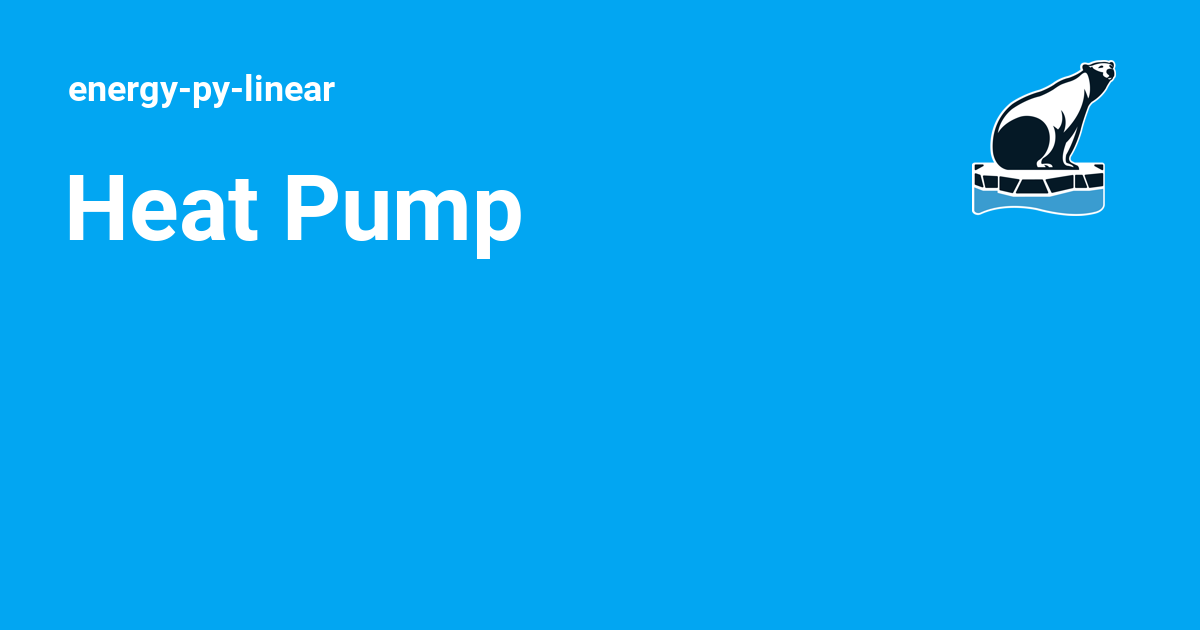
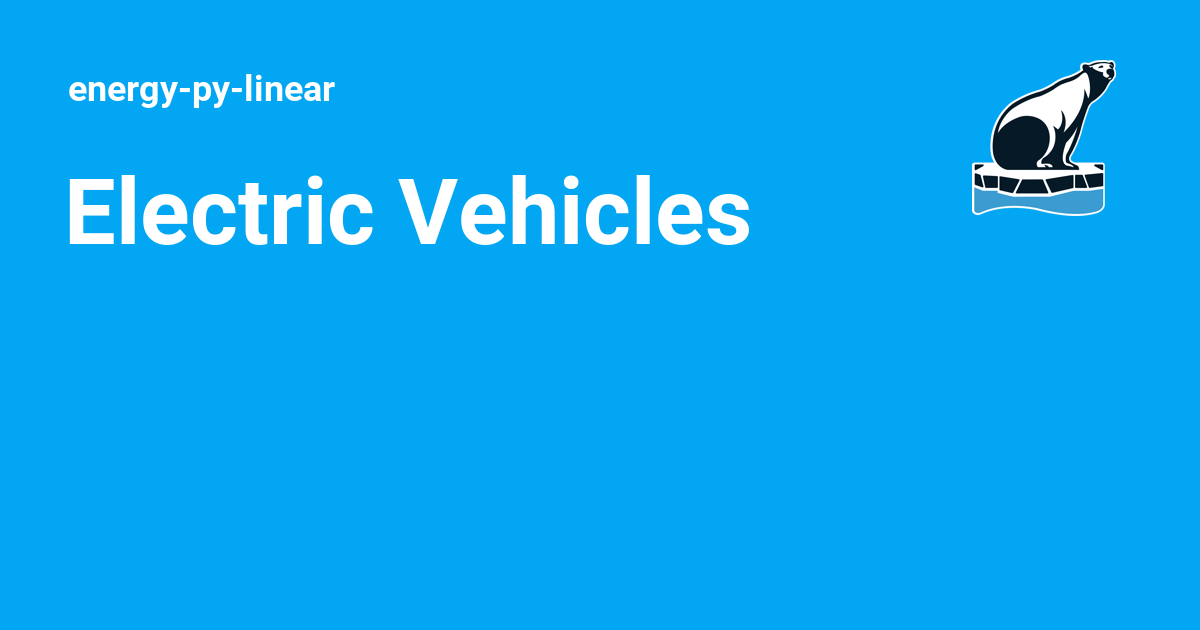
Deployed aa86b32 to 1.0.0 with MkDocs 1.5.3 and mike 1.1.2

Changed region(s): [[0.0617, 0.2714, 0.6475, 0.4222]]

diff --git a/1.0.0/changelog/index.html b/1.0.0/changelog/index.html
@@ -354,7 +354,7 @@
   
   
     <li class="md-nav__item">
-      <a href="../assets/evs/" class="md-nav__link">
+      <a href="../assets/heat-pump/" class="md-nav__link">
         Heat Pump
       </a>
     </li>
@@ -860,7 +860,7 @@
 <h1 id="changelog">Changelog</h1>
 <h2 id="100"><a href="https://github.com/ADGEfficiency/energy-py-linear/releases/tag/v1.0.0">1.0.0</a></h2>
 <h3 id="add-renewable-generator-asset">Add Renewable Generator Asset</h3>
-<p>The <code>epl.RenewableGenerator</code> asset models controllable generation, renewable generation like solar or wind.</p>
+<p>The <code>epl.RenewableGenerator</code> asset models controllable renewable generation like solar or wind.</p>
 <div class="highlight"><pre><span></span><code><a id="__codelineno-0-1" name="__codelineno-0-1" href="#__codelineno-0-1"></a><span class="kn">import</span> <span class="nn">energypylinear</span> <span class="k">as</span> <span class="nn">epl</span>
 <a id="__codelineno-0-2" name="__codelineno-0-2" href="#__codelineno-0-2"></a>
 <a id="__codelineno-0-3" name="__codelineno-0-3" href="#__codelineno-0-3"></a><span class="n">asset</span> <span class="o">=</span> <span class="n">epl</span><span class="o">.</span><span class="n">RenewableGenerator</span><span class="p">(</span>
@@ -907,7 +907,7 @@
 <a id="__codelineno-3-7" name="__codelineno-3-7" href="#__codelineno-3-7"></a><span class="n">results</span> <span class="o">=</span> <span class="n">simulation</span><span class="o">.</span><span class="n">results</span>
 </code></pre></div>
 <h3 id="bug-fixes">Bug Fixes</h3>
-<p>Fixed a bug in the documentation for <a href="how-to/price-carbon/">optimizing for price and carbon</a>.</p>
+<p>Fixed a bug in the documentation for <a href="https://energypylinear.adgefficiency.com/latest/how-to/price-carbon/">optimizing for price and carbon</a>.</p>
 <p>Added the heat pump asset to the <code>epl.Site</code> API.</p>
 <h3 id="documentation">Documentation</h3>
 <p>Expanded the asset documentation from a single file into separate files, one per asset. Moved examples into the asset documentation.</p>
@@ -915,6 +915,7 @@
 <h3 id="other-changes">Other Changes</h3>
 <p>Adopted <a href="https://semver.org">semantic versioning</a>.</p>
 <p>Moved changelog into <a href="https://energypylinear.adgefficiency.com/latest/changelog">docs/changelog</a>.</p>
+<p>Updated versions of Pydantic, Pandas &amp; Numpy.</p>
 <h2 id="021"><a href="https://github.com/ADGEfficiency/energy-py-linear/releases/tag/v0.2.1">0.2.1</a></h2>
 <p>Added the <code>epl.HeatPump</code> asset.</p>
 <h2 id="020"><a href="https://github.com/ADGEfficiency/energy-py-linear/releases/tag/v0.2.0">0.2.0</a></h2>

diff --git a/1.0.0/assets/evs/index.html b/1.0.0/assets/evs/index.html
@@ -11,17 +11,17 @@
         <link rel="canonical" href="https://energypylinear.adgefficiency.com/1.0.0/assets/evs/">
       
       
-        <link rel="prev" href="./">
+        <link rel="prev" href="../chp/">
       
       
-        <link rel="next" href="../renewable-generator/">
+        <link rel="next" href="../heat-pump/">
       
       <link rel="icon" href="../../static/favicon.ico">
       <meta name="generator" content="mkdocs-1.5.3, mkdocs-material-9.1.6">
     
     
       
-        <title>Heat Pump - energy-py-linear</title>
+        <title>Electric Vehicles - energy-py-linear</title>
       
     
     
@@ -53,7 +53,7 @@
       
         <meta  property="og:type"  content="website" >
       
-        <meta  property="og:title"  content="Heat Pump - energy-py-linear" >
+        <meta  property="og:title"  content="Electric Vehicles - energy-py-linear" >
       
         <meta  property="og:description"  content="None" >
       
@@ -69,7 +69,7 @@
       
         <meta  name="twitter:card"  content="summary_large_image" >
       
-        <meta  name="twitter:title"  content="Heat Pump - energy-py-linear" >
+        <meta  name="twitter:title"  content="Electric Vehicles - energy-py-linear" >
       
         <meta  name="twitter:description"  content="None" >
       
@@ -137,7 +137,7 @@
         <div class="md-header__topic" data-md-component="header-topic">
           <span class="md-ellipsis">
             
-              Heat Pump
+              Electric Vehicles
             
           </span>
         </div>
@@ -340,20 +340,6 @@
               
   
   
-  
-    <li class="md-nav__item">
-      <a href="./" class="md-nav__link">
-        Electric Vehicles
-      </a>
-    </li>
-  
-
-            
-          
-            
-              
-  
-  
     
   
   
@@ -366,9 +352,23 @@
       
       
       <a href="./" class="md-nav__link md-nav__link--active">
-        Heat Pump
+        Electric Vehicles
       </a>
       
+    </li>
+  
+
+            
+          
+            
+              
+  
+  
+  
+    <li class="md-nav__item">
+      <a href="../heat-pump/" class="md-nav__link">
+        Heat Pump
+      </a>
     </li>
   
 

diff --git a/1.0.0/assets/heat-pump/index.html b/1.0.0/assets/heat-pump/index.html
@@ -11,6 +11,10 @@
         <link rel="canonical" href="https://energypylinear.adgefficiency.com/1.0.0/assets/heat-pump/">
       
       
+        <link rel="prev" href="../evs/">
+      
+      
+        <link rel="next" href="../renewable-generator/">
       
       <link rel="icon" href="../../static/favicon.ico">
       <meta name="generator" content="mkdocs-1.5.3, mkdocs-material-9.1.6">
@@ -277,18 +281,18 @@
 
   
   
+    
+  
   
     
       
     
-    <li class="md-nav__item md-nav__item--section md-nav__item--nested">
+    <li class="md-nav__item md-nav__item--active md-nav__item--section md-nav__item--nested">
       
       
       
       
-        
-      
-      <input class="md-nav__toggle md-toggle md-toggle--indeterminate" type="checkbox" id="__nav_2" >
+      <input class="md-nav__toggle md-toggle " type="checkbox" id="__nav_2" checked>
       
       
       
@@ -297,7 +301,7 @@
           <span class="md-nav__icon md-icon"></span>
         </label>
       
-      <nav class="md-nav" data-md-level="1" aria-labelledby="__nav_2_label" aria-expanded="false">
+      <nav class="md-nav" data-md-level="1" aria-labelledby="__nav_2_label" aria-expanded="true">
         <label class="md-nav__title" for="__nav_2">
           <span class="md-nav__icon md-icon"></span>
           Assets
@@ -350,11 +354,21 @@
               
   
   
+    
   
-    <li class="md-nav__item">
-      <a href="../evs/" class="md-nav__link">
+  
+    <li class="md-nav__item md-nav__item--active">
+      
+      <input class="md-nav__toggle md-toggle" type="checkbox" id="__toc">
+      
+      
+        
+      
+      
+      <a href="./" class="md-nav__link md-nav__link--active">
         Heat Pump
       </a>
+      
     </li>
   
 

diff --git a/1.0.0/assets/renewable-generator/index.html b/1.0.0/assets/renewable-generator/index.html
@@ -11,7 +11,7 @@
         <link rel="canonical" href="https://energypylinear.adgefficiency.com/1.0.0/assets/renewable-generator/">
       
       
-        <link rel="prev" href="../evs/">
+        <link rel="prev" href="../heat-pump/">
       
       
         <link rel="next" href="../../how-to/dispatch-site/">
@@ -356,7 +356,7 @@
   
   
     <li class="md-nav__item">
-      <a href="../evs/" class="md-nav__link">
+      <a href="../heat-pump/" class="md-nav__link">
         Heat Pump
       </a>
     </li>

diff --git a/1.0.0/404.html b/1.0.0/404.html
@@ -319,7 +319,7 @@
   
   
     <li class="md-nav__item">
-      <a href="/1.0.0/assets/evs/" class="md-nav__link">
+      <a href="/1.0.0/assets/heat-pump/" class="md-nav__link">
         Heat Pump
       </a>
     </li>

diff --git a/1.0.0/how-to/dispatch-forecast/index.html b/1.0.0/how-to/dispatch-forecast/index.html
@@ -356,7 +356,7 @@
   
   
     <li class="md-nav__item">
-      <a href="../../assets/evs/" class="md-nav__link">
+      <a href="../../assets/heat-pump/" class="md-nav__link">
         Heat Pump
       </a>
     </li>

diff --git a/1.0.0/how-to/dispatch-site/index.html b/1.0.0/how-to/dispatch-site/index.html
@@ -356,7 +356,7 @@
   
   
     <li class="md-nav__item">
-      <a href="../../assets/evs/" class="md-nav__link">
+      <a href="../../assets/heat-pump/" class="md-nav__link">
         Heat Pump
       </a>
     </li>

diff --git a/1.0.0/how-to/price-carbon/index.html b/1.0.0/how-to/price-carbon/index.html
@@ -356,7 +356,7 @@
   
   
     <li class="md-nav__item">
-      <a href="../../assets/evs/" class="md-nav__link">
+      <a href="../../assets/heat-pump/" class="md-nav__link">
         Heat Pump
       </a>
     </li>

diff --git a/1.0.0/validation/battery/index.html b/1.0.0/validation/battery/index.html
@@ -356,7 +356,7 @@
   
   
     <li class="md-nav__item">
-      <a href="../../assets/evs/" class="md-nav__link">
+      <a href="../../assets/heat-pump/" class="md-nav__link">
         Heat Pump
       </a>
     </li>

diff --git a/1.0.0/validation/evs/index.html b/1.0.0/validation/evs/index.html
@@ -356,7 +356,7 @@
   
   
     <li class="md-nav__item">
-      <a href="../../assets/evs/" class="md-nav__link">
+      <a href="../../assets/heat-pump/" class="md-nav__link">
         Heat Pump
       </a>
     </li>

diff --git a/1.0.0/validation/heat-pump/index.html b/1.0.0/validation/heat-pump/index.html
@@ -356,7 +356,7 @@
   
   
     <li class="md-nav__item">
-      <a href="../../assets/evs/" class="md-nav__link">
+      <a href="../../assets/heat-pump/" class="md-nav__link">
         Heat Pump
       </a>
     </li>

diff --git a/1.0.0/validation/renewable-generator/index.html b/1.0.0/validation/renewable-generator/index.html
@@ -356,7 +356,7 @@
   
   
     <li class="md-nav__item">
-      <a href="../../assets/evs/" class="md-nav__link">
+      <a href="../../assets/heat-pump/" class="md-nav__link">
         Heat Pump
       </a>
     </li>
